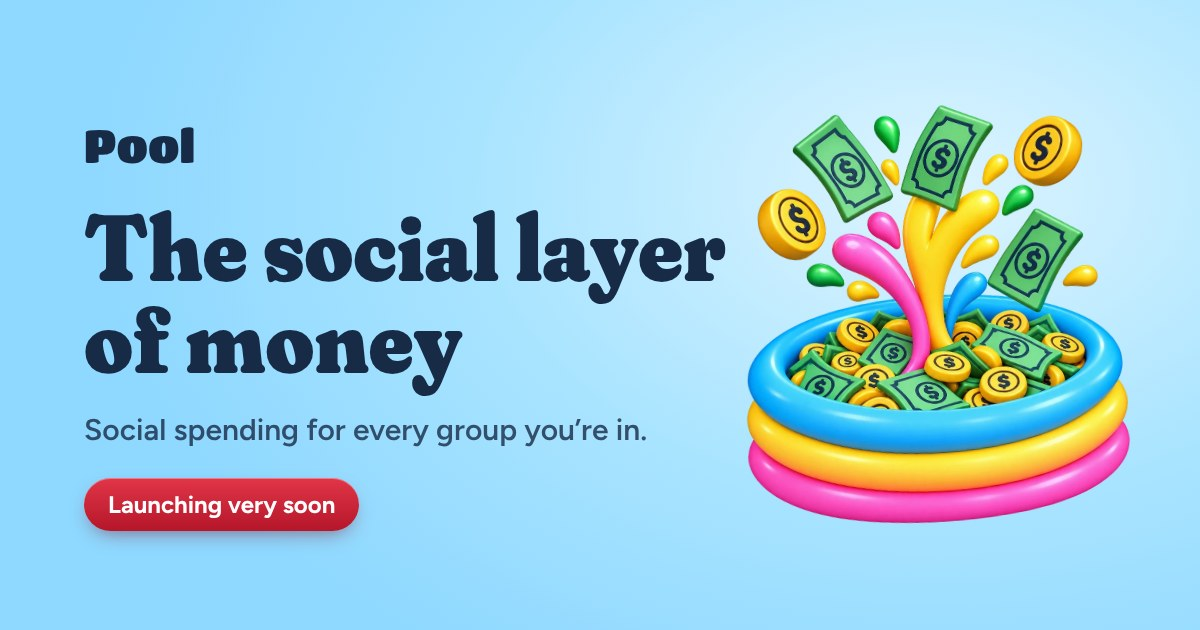
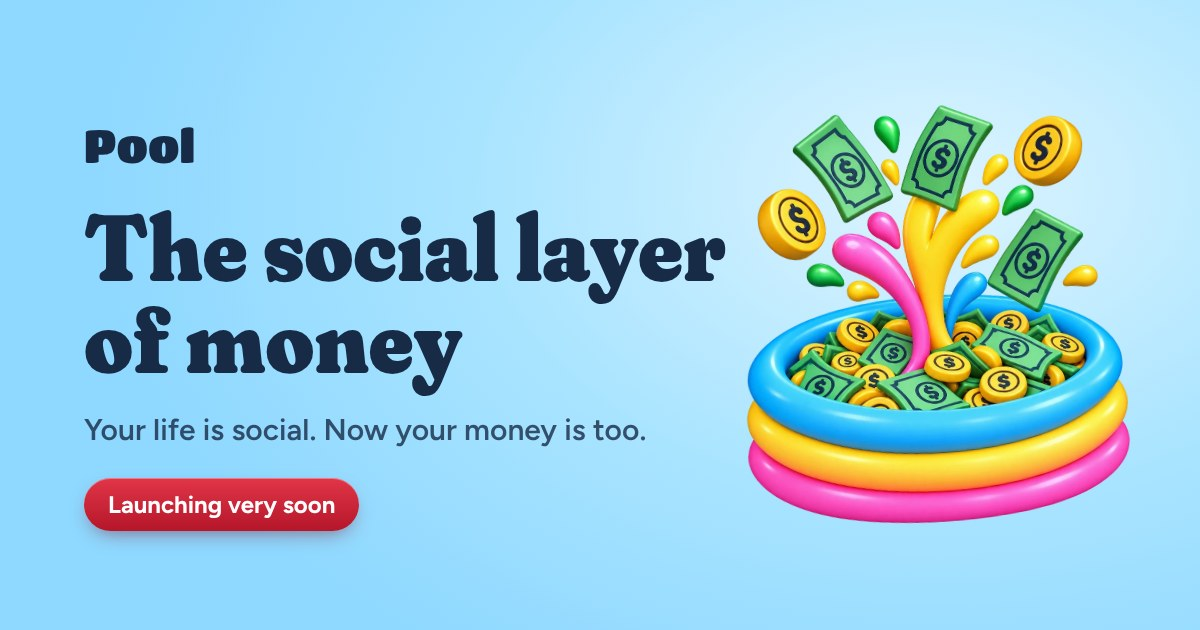
Preview: new hero subline and Drippy access copy
Claude-Session: https://claude.ai/code/session_018xBraWefq5uaHVztMDebhf

Changed region(s): [[0.0617, 0.6635, 0.5242, 0.7238]]

diff --git a/index.html b/index.html
@@ -4,16 +4,16 @@
 <meta charset="utf-8">
 <meta name="viewport" content="width=device-width, initial-scale=1, viewport-fit=cover">
 <title>Pool: the social layer of money</title>
-<meta name="description" content="Pool is the social layer of money: social spending for every group you’re in, with your own card in each pool. Launching very soon. Get early access.">
+<meta name="description" content="Pool is the social layer of money. Your life is social. Now your money is too. Launching very soon: get early access.">
 <link rel="canonical" href="https://poolapp.co/">
 <meta property="og:type" content="website">
 <meta property="og:url" content="https://poolapp.co/">
 <meta property="og:title" content="Pool: the social layer of money">
-<meta property="og:description" content="Social spending for every group you’re in. Launching very soon. Get early access.">
+<meta property="og:description" content="Your life is social. Now your money is too. Launching very soon: get early access.">
 <meta property="og:image" content="https://pool-website-lovat.vercel.app/assets/og.jpg">
 <meta property="og:image:width" content="1200">
 <meta property="og:image:height" content="630">
-<meta property="og:image:alt" content="Pool: the social layer of money. Social spending for every group you’re in. Launching very soon.">
+<meta property="og:image:alt" content="Pool: the social layer of money. Your life is social. Now your money is too. Launching very soon.">
 <meta name="twitter:card" content="summary_large_image">
 <meta name="twitter:image" content="https://pool-website-lovat.vercel.app/assets/og.jpg">
 <meta name="theme-color" content="#A9E4FF">
@@ -726,13 +726,13 @@ html{scroll-behavior:smooth}
 
 
 
-<div class="copy"><h1 class="hl">The social layer of money</h1><p class="lede"><span class="ld-1">Social spending for every group you’re&nbsp;in.</span> <span class="ld-soon">Launching very soon</span></p></div><div class="gstage" aria-hidden="true"><div class="gwrap"><span class="gsl" style="transform:translateZ(calc(-0.09*var(--u)))"></span><span class="gsl" style="transform:translateZ(calc(-0.18*var(--u)))"></span><span class="gsl" style="transform:translateZ(calc(-0.27*var(--u)))"></span><span class="gsl" style="transform:translateZ(calc(-0.36*var(--u)))"></span><span class="gsl" style="transform:translateZ(calc(-0.45*var(--u)))"></span><span class="gsl" style="transform:translateZ(calc(-0.54*var(--u)))"></span><span class="gsl" style="transform:translateZ(calc(-0.63*var(--u)))"></span><div class="gcard fill gl8 cw4"><img class="cph" src="assets/a68d124509.webp" alt=""><span class="cov"></span><div class="ftop"><span class="cwm">Pool</span><svg class="ctl" viewBox="0 0 24 24" fill="none" stroke="currentColor" stroke-width="2" stroke-linecap="round" aria-hidden="true"><path d="M7 9.5a3.5 3.5 0 0 1 0 5"></path><path d="M10.5 7a7 7 0 0 1 0 10"></path><path d="M14 4.5a10.5 10.5 0 0 1 0 15"></path></svg></div><div class="fbot"><div class="vb2"><span class="cn">Friday dinners</span><span class="stp amt2"><span>$0</span><span>$40</span><span>$80</span><span>$120</span><span>$160</span><span>$200</span><span>$240</span></span></div><span class="fcs"><img src="assets/6738eff053.webp" alt=""><img src="assets/4d55660b2c.webp" alt=""><img src="assets/7f87d6fa43.webp" alt=""><img src="assets/5060878c07.webp" alt=""><img src="assets/75dfbc8993.webp" alt=""><img src="assets/17b5b9362c.webp" alt=""></span></div><span class="shine"></span></div></div></div>
+<div class="copy"><h1 class="hl">The social layer of money</h1><p class="lede"><span class="ld-1">Your life is social. Now your money is&nbsp;too.</span> <span class="ld-soon">Launching very soon</span></p></div><div class="gstage" aria-hidden="true"><div class="gwrap"><span class="gsl" style="transform:translateZ(calc(-0.09*var(--u)))"></span><span class="gsl" style="transform:translateZ(calc(-0.18*var(--u)))"></span><span class="gsl" style="transform:translateZ(calc(-0.27*var(--u)))"></span><span class="gsl" style="transform:translateZ(calc(-0.36*var(--u)))"></span><span class="gsl" style="transform:translateZ(calc(-0.45*var(--u)))"></span><span class="gsl" style="transform:translateZ(calc(-0.54*var(--u)))"></span><span class="gsl" style="transform:translateZ(calc(-0.63*var(--u)))"></span><div class="gcard fill gl8 cw4"><img class="cph" src="assets/a68d124509.webp" alt=""><span class="cov"></span><div class="ftop"><span class="cwm">Pool</span><svg class="ctl" viewBox="0 0 24 24" fill="none" stroke="currentColor" stroke-width="2" stroke-linecap="round" aria-hidden="true"><path d="M7 9.5a3.5 3.5 0 0 1 0 5"></path><path d="M10.5 7a7 7 0 0 1 0 10"></path><path d="M14 4.5a10.5 10.5 0 0 1 0 15"></path></svg></div><div class="fbot"><div class="vb2"><span class="cn">Friday dinners</span><span class="stp amt2"><span>$0</span><span>$40</span><span>$80</span><span>$120</span><span>$160</span><span>$200</span><span>$240</span></span></div><span class="fcs"><img src="assets/6738eff053.webp" alt=""><img src="assets/4d55660b2c.webp" alt=""><img src="assets/7f87d6fa43.webp" alt=""><img src="assets/5060878c07.webp" alt=""><img src="assets/75dfbc8993.webp" alt=""><img src="assets/17b5b9362c.webp" alt=""></span></div><span class="shine"></span></div></div></div>
 
 
 
 
 
-<span class="cue" aria-hidden="true">Scroll<svg viewBox="0 0 24 24" fill="none" stroke="currentColor" stroke-width="2.2" stroke-linecap="round" stroke-linejoin="round" aria-hidden="true"><path d="M6 9l6 6 6-6"></path></svg></span><div class="epg"><canvas class="lfx lfx-rib" data-fx="pour" aria-hidden="true"></canvas><section class="eps eps1" id="social" aria-labelledby="h-social"><div class="epc"><h2 class="bh" id="h-social">Money is social now</h2><p class="bs">The best parts of life happen with other people.</p><div class="echips"><span class="echip"><img src="assets/6738eff053.webp" alt="">Friday dinners</span><span class="echip"><img src="assets/4d55660b2c.webp" alt="">Road trip</span><span class="echip"><img src="assets/7f87d6fa43.webp" alt="">Dorm 3C</span><span class="echip"><img src="assets/5060878c07.webp" alt="">Game night</span></div></div></section><section class="eps eps2" id="how" aria-labelledby="h-how"><div class="epc"><canvas class="lfx lfx-pool" data-fx="pool" aria-hidden="true"></canvas><h2 class="bh" id="h-how">How social spending works</h2><ol class="esteps"><li><b>Start a pool with your people</b><span>Friends, roommates, teammates, family. One pool for every group.</span></li><li><b>Fund it together</b><span>Everyone adds to the pool, so the group’s plans are covered before they start.</span></li><li><b>Spend it together</b><span>Everyone pays with their own card from the same pool, and the whole group sees every&nbsp;spend.</span></li></ol></div></section><section class="eps eps3 mv" id="features" aria-labelledby="h-feat"><div class="epc"><h2 class="bh" id="h-feat">Money that moves like your group</h2><div class="mvw" data-mv><div class="mvs" aria-hidden="true"><div class="mvc" data-k="0"><img src="assets/f3f823a08e.webp" alt="" loading="lazy" style="object-position:50% 50%"><div class="mvo"><span class="mvmc mvmc2"><i>Pool</i><em>Ski trip</em><small>•• 7302</small></span><span class="mvmc"><i>Pool</i><em>Friday dinners</em><small>•• 4821</small></span></div></div><div class="mvc" data-k="1"><img src="assets/5eeadeca8b.webp" alt="" loading="lazy" style="object-position:62% 50%"><div class="mvo"><span class="mvch"><img src="assets/6738eff053.webp" alt="">Maya can tap<i class="mvok"><svg viewBox="0 0 12 12"><path d="M3 6.2l2 2 4-4.4" fill="none" stroke="#fff" stroke-width="1.8" stroke-linecap="round" stroke-linejoin="round"></path></svg></i></span><span class="mvch"><img src="assets/7f87d6fa43.webp" alt="">Rin can tap<i class="mvok"><svg viewBox="0 0 12 12"><path d="M3 6.2l2 2 4-4.4" fill="none" stroke="#fff" stroke-width="1.8" stroke-linecap="round" stroke-linejoin="round"></path></svg></i></span><span class="mvch mvdim"><img src="assets/5060878c07.webp" alt="">Liv, view only</span></div></div><div class="mvc" data-k="2"><img src="assets/1b0b6bba10.webp" alt="" loading="lazy" style="object-position:50% 40%"><div class="mvo"><span class="mvch"><img src="assets/4d55660b2c.webp" alt="">Leo chipped in<b>+$22</b></span><span class="mvch"><img src="assets/75dfbc8993.webp" alt="">Pizza, Maya<b>−$42.80</b></span></div></div><div class="mvc" data-k="3"><img src="assets/e5e2cc8502.webp" alt="" loading="lazy" style="object-position:45% 50%"><div class="mvo"><span class="mvch"><svg class="mvdp" viewBox="0 0 12 16"><path d="M6 1C6 1 1.5 7 1.5 10a4.5 4.5 0 0 0 9 0C10.5 7 6 1 6 1z" fill="#3BA9E0"></path></svg>6-week streak<b>+25</b></span><span class="mvch"><svg class="mvdp" viewBox="0 0 12 16"><path d="M6 1C6 1 1.5 7 1.5 10a4.5 4.5 0 0 0 9 0C10.5 7 6 1 6 1z" fill="#3BA9E0"></path></svg>Pool droplets<b>2,960</b></span><span class="mvch">Custom card unlocked<i class="mvok"><svg viewBox="0 0 12 12"><path d="M3 6.2l2 2 4-4.4" fill="none" stroke="#fff" stroke-width="1.8" stroke-linecap="round" stroke-linejoin="round"></path></svg></i></span></div></div></div><ul class="mvl"><li class="on"><button type="button" data-i="0" aria-pressed="true"><b>Your own card in every pool</b><span class="mvpm" aria-hidden="true"></span></button><p>Each person gets their own virtual card in each pool they’re in.</p></li><li><button type="button" data-i="1" aria-pressed="false"><b>You decide who can spend</b><span class="mvpm" aria-hidden="true"></span></button><p>The pool creator decides if everyone can spend or only the people they pick, and can change it anytime.</p></li><li><button type="button" data-i="2" aria-pressed="false"><b>Everyone sees every spend</b><span class="mvpm" aria-hidden="true"></span></button><p>Every dollar in and every purchase shows up for the whole group.</p></li><li><button type="button" data-i="3" aria-pressed="false"><b>Stack droplets, unlock rewards</b><span class="mvpm" aria-hidden="true"></span></button><p>The more your pool does together, the more droplets you stack, and the bigger the rewards: discounts, waived fees, exclusive merch, Drippy power-ups and a custom card that’s lowkey iconic.</p></li></ul></div><p class="mvfine">Example groups and amounts.</p></div></section><section class="eps eps1 dr" id="drippy" aria-labelledby="h-dr"><div class="epc"><div class="drt"><h2 class="bh" id="h-dr">Meet Drippy</h2><p class="drl">Drippy is part of your pool, and lowkey the most useful one in the group. Ask for whatever: it does the research, drops the best picks and pays when you say bet.</p></div><div class="drx"><div class="drm" aria-hidden="true"><div class="drb"><img data-m="smug" class="on" src="assets/drippy-smug.webp" alt="" width="640" height="636" loading="lazy" decoding="async"><img data-m="blink" src="assets/drippy-blink.webp" alt="" width="640" height="636" loading="lazy" decoding="async"><img data-m="look" src="assets/drippy-look.webp" alt="" width="640" height="636" loading="lazy" decoding="async"><img data-m="alert" src="assets/drippy-alert.webp" alt="" width="640" height="636" loading="lazy" decoding="async"><img data-m="happy" src="assets/drippy-happy.webp" alt="" width="640" height="636" loading="lazy" decoding="async"><img data-m="paid" src="assets/drippy-paid.webp" alt="" width="640" height="636" loading="lazy" decoding="async"></div></div><div class="dchat"><div class="drlog" role="log" aria-live="polite" aria-label="Chat with Drippy" tabindex="0"></div><form class="drin" novalidate><input type="text" placeholder="Ask Drippy anything" aria-label="Ask Drippy anything" autocomplete="off" enterkeyhint="send" maxlength="140"><button type="submit" aria-label="Send"><svg viewBox="0 0 16 16" fill="none" stroke="currentColor" stroke-width="2.2" stroke-linecap="round" stroke-linejoin="round" aria-hidden="true"><path d="M8 13V3M3.5 7.5L8 3l4.5 4.5"/></svg></button></form></div></div><p class="drfine">A preview of Drippy. Places, prices and amounts are examples.</p></div></section><section class="eps eps2 grp" id="groups" aria-labelledby="h-grp"><div class="epc"><div class="grt"><h2 class="bh" id="h-grp">A pool for every group you’re in</h2><p class="grl">It takes more than 200 hours together before you can call someone a close friend. Give your roommates, your team, your family, your partner and the coworkers you eat with a pool each, for as long as you’re together.</p></div><div class="grx" data-groups></div><p class="grfine">Example groups and amounts.</p></div></section><section class="eps eps3" id="join" aria-labelledby="h-join"><div class="epc"><h2 class="bh" id="h-join">Pool is launching very soon.</h2><p class="bs">Join the waitlist for early access, and bring your friends so you all get in&nbsp;together.</p><form class="join" id="waitlist" novalidate data-endpoint="https://app.loops.so/api/newsletter-form/cmwl3l3fe00og0jyopp1idia0"><label class="vh" for="wl-email">Your email</label><input id="wl-email" class="jin" type="email" name="email" autocomplete="email" inputmode="email" placeholder="you@email.com" required><button class="go" type="submit">Get early access</button></form><p class="jmsg" id="wl-msg" role="status" aria-live="polite"></p></div></section><section class="eps eps1 fq" id="faq" aria-labelledby="h-faq" data-lay="0"><div class="epc"><div class="fqw"><div class="fqt"><h2 class="bh" id="h-faq">Questions, answered</h2></div><div class="fqx" data-faq></div></div></div></section><footer class="ft"><div class="ft-in"><a class="ft-lg" href="#top" aria-label="Pool, back to top"><img src="assets/449ca5a00d.webp" alt="" width="64" height="64"><b>Pool</b></a><p class="ft-tg">Life’s better pooled.</p><p class="ft-ln">The social layer of money. Social spending for every group you’re in, with your own card in each pool.</p><nav class="ft-nv" aria-label="Footer"><a href="#how">How it works</a><a href="#drippy">Drippy</a><a href="#groups">Groups</a><a href="#faq">FAQ</a><a href="#join">Get early access</a></nav><p class="ft-lgl">Pool is launching very soon. Names, groups, places and amounts on this page are examples. Each person gets their own virtual card in each pool they’re in. Droplets have no cash value. Pool doesn’t lend money and never charges interest. © 2026 Pool.</p></div></footer></div>
+<span class="cue" aria-hidden="true">Scroll<svg viewBox="0 0 24 24" fill="none" stroke="currentColor" stroke-width="2.2" stroke-linecap="round" stroke-linejoin="round" aria-hidden="true"><path d="M6 9l6 6 6-6"></path></svg></span><div class="epg"><canvas class="lfx lfx-rib" data-fx="pour" aria-hidden="true"></canvas><section class="eps eps1" id="social" aria-labelledby="h-social"><div class="epc"><h2 class="bh" id="h-social">Money is social now</h2><p class="bs">The best parts of life happen with other people.</p><div class="echips"><span class="echip"><img src="assets/6738eff053.webp" alt="">Friday dinners</span><span class="echip"><img src="assets/4d55660b2c.webp" alt="">Road trip</span><span class="echip"><img src="assets/7f87d6fa43.webp" alt="">Dorm 3C</span><span class="echip"><img src="assets/5060878c07.webp" alt="">Game night</span></div></div></section><section class="eps eps2" id="how" aria-labelledby="h-how"><div class="epc"><canvas class="lfx lfx-pool" data-fx="pool" aria-hidden="true"></canvas><h2 class="bh" id="h-how">How social spending works</h2><ol class="esteps"><li><b>Start a pool with your people</b><span>Friends, roommates, teammates, family. Anyone you do life with.</span></li><li><b>Fund it together</b><span>Everyone adds to the pool, so the group’s plans are covered before they start.</span></li><li><b>Spend it together</b><span>Everyone pays with their own card from the same pool, and the whole group sees every&nbsp;spend.</span></li></ol></div></section><section class="eps eps3 mv" id="features" aria-labelledby="h-feat"><div class="epc"><h2 class="bh" id="h-feat">Money that moves like your group</h2><div class="mvw" data-mv><div class="mvs" aria-hidden="true"><div class="mvc" data-k="0"><img src="assets/f3f823a08e.webp" alt="" loading="lazy" style="object-position:50% 50%"><div class="mvo"><span class="mvmc mvmc2"><i>Pool</i><em>Ski trip</em><small>•• 7302</small></span><span class="mvmc"><i>Pool</i><em>Friday dinners</em><small>•• 4821</small></span></div></div><div class="mvc" data-k="1"><img src="assets/5eeadeca8b.webp" alt="" loading="lazy" style="object-position:62% 50%"><div class="mvo"><span class="mvch"><img src="assets/6738eff053.webp" alt="">Maya can tap<i class="mvok"><svg viewBox="0 0 12 12"><path d="M3 6.2l2 2 4-4.4" fill="none" stroke="#fff" stroke-width="1.8" stroke-linecap="round" stroke-linejoin="round"></path></svg></i></span><span class="mvch"><img src="assets/7f87d6fa43.webp" alt="">Rin can tap<i class="mvok"><svg viewBox="0 0 12 12"><path d="M3 6.2l2 2 4-4.4" fill="none" stroke="#fff" stroke-width="1.8" stroke-linecap="round" stroke-linejoin="round"></path></svg></i></span><span class="mvch mvdim"><img src="assets/5060878c07.webp" alt="">Liv, view only</span></div></div><div class="mvc" data-k="2"><img src="assets/1b0b6bba10.webp" alt="" loading="lazy" style="object-position:50% 40%"><div class="mvo"><span class="mvch"><img src="assets/4d55660b2c.webp" alt="">Leo chipped in<b>+$22</b></span><span class="mvch"><img src="assets/75dfbc8993.webp" alt="">Pizza, Maya<b>−$42.80</b></span></div></div><div class="mvc" data-k="3"><img src="assets/e5e2cc8502.webp" alt="" loading="lazy" style="object-position:45% 50%"><div class="mvo"><span class="mvch"><svg class="mvdp" viewBox="0 0 12 16"><path d="M6 1C6 1 1.5 7 1.5 10a4.5 4.5 0 0 0 9 0C10.5 7 6 1 6 1z" fill="#3BA9E0"></path></svg>6-week streak<b>+25</b></span><span class="mvch"><svg class="mvdp" viewBox="0 0 12 16"><path d="M6 1C6 1 1.5 7 1.5 10a4.5 4.5 0 0 0 9 0C10.5 7 6 1 6 1z" fill="#3BA9E0"></path></svg>Pool droplets<b>2,960</b></span><span class="mvch">Custom card unlocked<i class="mvok"><svg viewBox="0 0 12 12"><path d="M3 6.2l2 2 4-4.4" fill="none" stroke="#fff" stroke-width="1.8" stroke-linecap="round" stroke-linejoin="round"></path></svg></i></span></div></div></div><ul class="mvl"><li class="on"><button type="button" data-i="0" aria-pressed="true"><b>Your own card in every pool</b><span class="mvpm" aria-hidden="true"></span></button><p>Each person gets their own virtual card in each pool they’re in.</p></li><li><button type="button" data-i="1" aria-pressed="false"><b>You decide who can spend</b><span class="mvpm" aria-hidden="true"></span></button><p>The pool creator decides if everyone can spend or only the people they pick, and can change it anytime.</p></li><li><button type="button" data-i="2" aria-pressed="false"><b>Everyone sees every spend</b><span class="mvpm" aria-hidden="true"></span></button><p>Every dollar in and every purchase shows up for the whole group.</p></li><li><button type="button" data-i="3" aria-pressed="false"><b>Stack droplets, unlock rewards</b><span class="mvpm" aria-hidden="true"></span></button><p>The more your pool does together, the more droplets you stack, and the bigger the rewards: discounts, waived fees, exclusive merch, Drippy access and a custom card that’s lowkey iconic.</p></li></ul></div><p class="mvfine">Example groups and amounts.</p></div></section><section class="eps eps1 dr" id="drippy" aria-labelledby="h-dr"><div class="epc"><div class="drt"><h2 class="bh" id="h-dr">Meet Drippy</h2><p class="drl">Drippy is part of your pool, and lowkey the most useful one in the group. Ask for whatever: it does the research, drops the best picks and pays when you say bet.</p></div><div class="drx"><div class="drm" aria-hidden="true"><div class="drb"><img data-m="smug" class="on" src="assets/drippy-smug.webp" alt="" width="640" height="636" loading="lazy" decoding="async"><img data-m="blink" src="assets/drippy-blink.webp" alt="" width="640" height="636" loading="lazy" decoding="async"><img data-m="look" src="assets/drippy-look.webp" alt="" width="640" height="636" loading="lazy" decoding="async"><img data-m="alert" src="assets/drippy-alert.webp" alt="" width="640" height="636" loading="lazy" decoding="async"><img data-m="happy" src="assets/drippy-happy.webp" alt="" width="640" height="636" loading="lazy" decoding="async"><img data-m="paid" src="assets/drippy-paid.webp" alt="" width="640" height="636" loading="lazy" decoding="async"></div></div><div class="dchat"><div class="drlog" role="log" aria-live="polite" aria-label="Chat with Drippy" tabindex="0"></div><form class="drin" novalidate><input type="text" placeholder="Ask Drippy anything" aria-label="Ask Drippy anything" autocomplete="off" enterkeyhint="send" maxlength="140"><button type="submit" aria-label="Send"><svg viewBox="0 0 16 16" fill="none" stroke="currentColor" stroke-width="2.2" stroke-linecap="round" stroke-linejoin="round" aria-hidden="true"><path d="M8 13V3M3.5 7.5L8 3l4.5 4.5"/></svg></button></form></div></div><p class="drfine">A preview of Drippy. Everyone can try Drippy when Pool launches, then unlock it with droplets or a Pool subscription. Places, prices and amounts are examples.</p></div></section><section class="eps eps2 grp" id="groups" aria-labelledby="h-grp"><div class="epc"><div class="grt"><h2 class="bh" id="h-grp">A pool for every group you’re in</h2><p class="grl">It takes more than 200 hours together before you can call someone a close friend. Give your roommates, your team, your family, your partner and the coworkers you eat with a pool each, for as long as you’re together.</p></div><div class="grx" data-groups></div><p class="grfine">Example groups and amounts.</p></div></section><section class="eps eps3" id="join" aria-labelledby="h-join"><div class="epc"><h2 class="bh" id="h-join">Pool is launching very soon.</h2><p class="bs">Join the waitlist for early access, and bring your friends so you all get in&nbsp;together.</p><form class="join" id="waitlist" novalidate data-endpoint="https://app.loops.so/api/newsletter-form/cmwl3l3fe00og0jyopp1idia0"><label class="vh" for="wl-email">Your email</label><input id="wl-email" class="jin" type="email" name="email" autocomplete="email" inputmode="email" placeholder="you@email.com" required><button class="go" type="submit">Get early access</button></form><p class="jmsg" id="wl-msg" role="status" aria-live="polite"></p></div></section><section class="eps eps1 fq" id="faq" aria-labelledby="h-faq" data-lay="0"><div class="epc"><div class="fqw"><div class="fqt"><h2 class="bh" id="h-faq">Questions, answered</h2></div><div class="fqx" data-faq></div></div></div></section><footer class="ft"><div class="ft-in"><a class="ft-lg" href="#top" aria-label="Pool, back to top"><img src="assets/449ca5a00d.webp" alt="" width="64" height="64"><b>Pool</b></a><p class="ft-tg">Life’s better pooled.</p><p class="ft-ln">The social layer of money. Social money for you and your friends, with your own card in every pool.</p><nav class="ft-nv" aria-label="Footer"><a href="#how">How it works</a><a href="#drippy">Drippy</a><a href="#groups">Groups</a><a href="#faq">FAQ</a><a href="#join">Get early access</a></nav><p class="ft-lgl">Pool is launching very soon. Names, groups, places and amounts on this page are examples. Each person gets their own virtual card in each pool they’re in. Droplets have no cash value. Pool doesn’t lend money and never charges interest. © 2026 Pool.</p></div></footer></div>
 
 </div>
 <script>
@@ -1965,11 +1965,11 @@ var LFX = (function () {
   const sec = document.getElementById('faq'); if (!sec) return;
   const box = sec.querySelector('[data-faq]');
   const Q = [
-    ['What is Pool?', 'The social layer of money. Pool is social spending for your groups: start a pool with your people, everyone spends from it with their own card, and the whole group sees every dollar.'],
+    ['What is Pool?', 'The social layer of money. Your life is social, and now your money is too: start a pool with your friends, everyone spends from it with their own card, and everyone sees every dollar.'],
     ['Who controls the money?', 'The pool creator decides if everyone can spend or only the people they pick, and can change it anytime. Every spend shows up for the whole pool, and nobody can move the pool’s money into their own account, the creator included.'],
-    ['What does Drippy do?', 'Drippy is part of your pool. It researches options, makes suggestions and pays for things, but only after your group says yes.'],
+    ['What does Drippy do?', 'Drippy works inside your pool. It researches options, makes suggestions and pays for things, but only after your group says yes. Everyone can try Drippy when Pool launches; after that, unlock it with droplets or a Pool subscription.'],
     ['Where will our money be kept?', 'With a partner bank, never in one person’s account. Pool is a fintech, not a bank.'],
-    ['What are droplets?', 'Rewards your pool earns for spending together and showing up for each other. The more you stack, the bigger the rewards: discounts, waived fees, exclusive merch, Drippy power-ups and a custom physical Pool card. Droplets have no cash value.'],
+    ['What are droplets?', 'Rewards your pool earns for spending together and showing up for each other. The more you stack, the bigger the rewards: discounts, waived fees, exclusive merch, Drippy access and a custom physical Pool card. Droplets have no cash value.'],
     ['Can we get a physical card?', 'Yes. Everyone gets their own virtual card in each pool they’re in, and once your pool stacks enough droplets you can redeem them for your own custom physical Pool card.'],
     ['When can we start?', 'Pool is launching very soon. Join the waitlist for early access, and sign up with your friends so you all get in together.']
   ];
